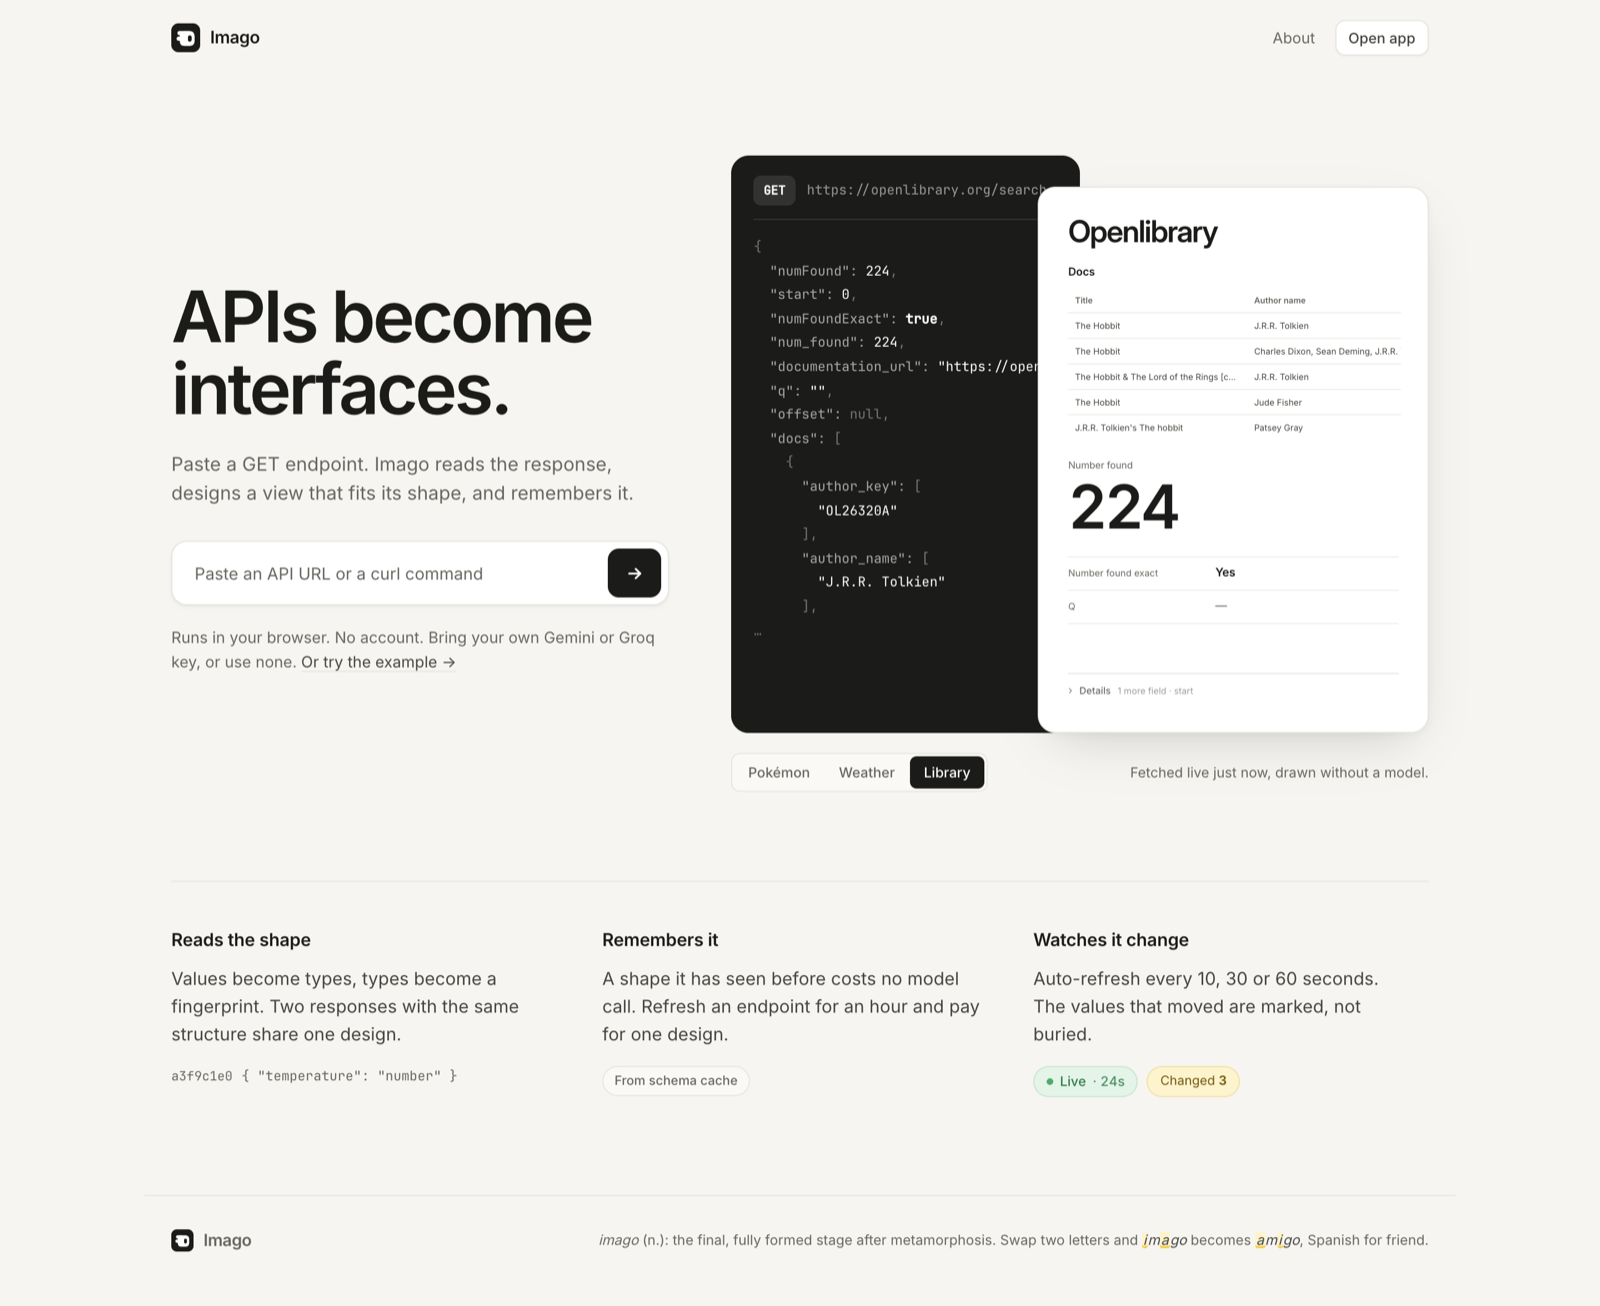
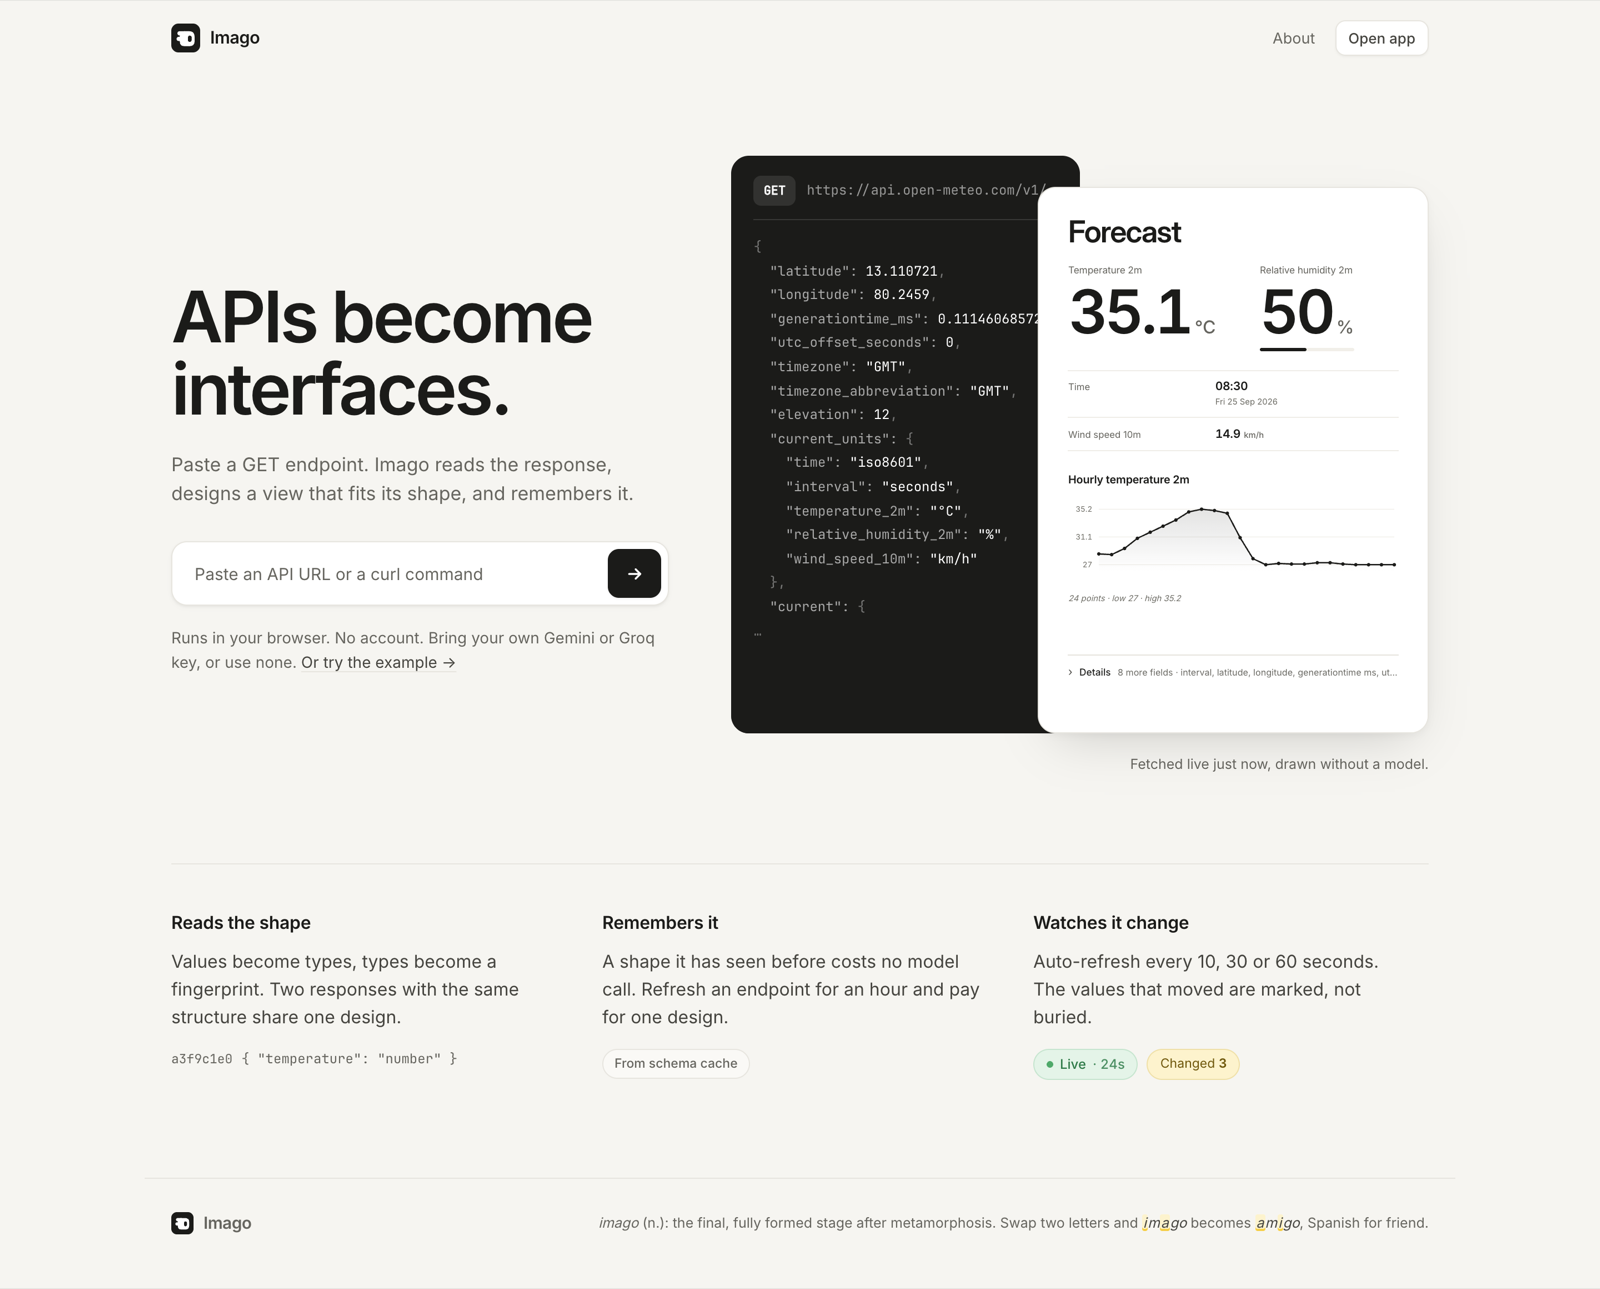
fix: the landing demo is always the weather; every fetch reaches the API (v0.13.2.0)
The landing demo loses its Pokémon / Weather / Library tabs and its random
first pick: it always shows the live Open-Meteo forecast, the picture the
banner and flyer use. "Or try the example" opens that one.

Requests went through the browser's HTTP cache. PokeAPI sends max-age=86400,
so after the first visit Pokémon came back from the browser in no time, while
Open-Meteo and Open Library (no caching allowed) went to the network. It also
meant Refresh and Watch could never see a cacheable endpoint change. The
request and the demo fetch now use cache: 'no-store'. Nothing was hardcoded;
the regression test pins both fetches and fails without either.

Figma: 00 Shipped re-captured; the 01 Landing mocks lose the example switcher.

diff --git a/js/main.js b/js/main.js
@@ -283,6 +283,9 @@ function wireEvents() {
 // opens first is left to chance so none is favoured.
 var specimen = { name: '', url: '', cache: Object.create(null), started: false };
 var SPECIMEN_LINES = 16;
+// The landing page shows one example, always the same one: a live weather
+// response, the picture the brand banner and flyer are built around.
+var SPECIMEN_EXAMPLE = 'Weather';
 
 function specimenDemo(name) {
   for (var i = 0; i < DEMOS.length; i += 1) if (DEMOS[i].name === name) return DEMOS[i];
@@ -290,29 +293,19 @@ function specimenDemo(name) {
 }
 
 function wireSpecimen() {
-  var root = document.querySelector('.specimen');
-  if (!root) return;
-  var tabs = root.querySelectorAll('.specimen-switch button');
-  for (var t = 0; t < tabs.length; t += 1) {
-    (function (tab) {
-      tab.addEventListener('click', function () { showSpecimen(tab.getAttribute('data-example')); });
-    })(tabs[t]);
-  }
   if (dom.landingTry) {
     dom.landingTry.addEventListener('click', function () {
       enterApp();
-      loadExample(specimen.url || DEMOS[0].url);
+      loadExample(specimen.url || specimenDemo(SPECIMEN_EXAMPLE).url);
     });
   }
 }
 
-// Called whenever the landing page is shown; the first call picks a tab.
+// Called whenever the landing page is shown; the first call fetches the example.
 function startSpecimen() {
-  if (specimen.started) return;
-  var tabs = document.querySelectorAll('.specimen-switch button');
-  if (!tabs.length) return;
+  if (specimen.started || !document.querySelector('.specimen')) return;
   specimen.started = true;
-  showSpecimen(tabs[Math.floor(Math.random() * tabs.length)].getAttribute('data-example'));
+  showSpecimen(SPECIMEN_EXAMPLE);
 }
 
 function showSpecimen(name) {
@@ -320,17 +313,11 @@ function showSpecimen(name) {
   if (!demo) return;
   specimen.name = name;
   specimen.url = demo.url;
-  var tabs = document.querySelectorAll('.specimen-switch button');
-  for (var i = 0; i < tabs.length; i += 1) {
-    var on = tabs[i].getAttribute('data-example') === name;
-    tabs[i].classList.toggle('is-active', on);
-    tabs[i].setAttribute('aria-selected', on ? 'true' : 'false');
-  }
   qs('specimenUrl').textContent = demo.url;
   var cached = specimen.cache[name];
   if (cached) { drawSpecimen(cached); return; }
   drawSpecimen({ pending: true, url: demo.url });
-  window.fetch(demo.url, { headers: { Accept: 'application/json' } })
+  window.fetch(demo.url, { headers: { Accept: 'application/json' }, cache: 'no-store' })
     .then(function (response) {
       if (!response.ok) throw new Error('HTTP ' + response.status);
       return response.json();
@@ -841,7 +828,7 @@ window.__imago = {
   getSessionProvider: getSessionProvider, setSessionProvider: setSessionProvider,
   getProvider: getProvider,
   // examples
-  showSpecimen: showSpecimen, startSpecimen: startSpecimen, specimen: specimen,
+  showSpecimen: showSpecimen, startSpecimen: startSpecimen, specimen: specimen, specimenDemo: specimenDemo,
   DEMOS: DEMOS, EMPTY_EXAMPLES: EMPTY_EXAMPLES, loadExample: loadExample, renderComponent: renderComponent,
   parseCurl: parseCurl, shellWords: shellWords, startTimer: startTimer, stopTimer: stopTimer, applyEdits: applyEdits, editsFor: editsFor, setEditing: setEditing, describeChange: describeChange, buildShareLink: buildShareLink, readShareLink: readShareLink, shareCurrentPage: shareCurrentPage, headerProblem: headerProblem, explainFailure: explainFailure, looksLikeCurl: looksLikeCurl, importCurl: importCurl,
   // full-html builder
@@ -877,4 +864,4 @@ if (document.readyState === 'loading') {
   init();
 }
 
-export { isPrivateHost, isFramed, showFramedNotice, wireEvents, wireSpecimen, startSpecimen, showSpecimen, drawSpecimen, specimenDemo, SPECIMEN_LINES, setView, cacheDom, enterApp, APP_HASH, viewFromUrl, goToView, migrateLegacyKeys, restoreSession, restoreLastView, restoreFromSnapshot, baseTitle, describeChange, noteWatchedChange, clearUnseen, offerNotifications, SHARE_PREFIX, MAX_SHARE_CHARS, toBase64Url, fromBase64Url, buildShareLink, readShareLink, shareCurrentPage, openShareLink, init };
+export { isPrivateHost, isFramed, showFramedNotice, wireEvents, wireSpecimen, startSpecimen, showSpecimen, drawSpecimen, specimenDemo, SPECIMEN_LINES, SPECIMEN_EXAMPLE, setView, cacheDom, enterApp, APP_HASH, viewFromUrl, goToView, migrateLegacyKeys, restoreSession, restoreLastView, restoreFromSnapshot, baseTitle, describeChange, noteWatchedChange, clearUnseen, offerNotifications, SHARE_PREFIX, MAX_SHARE_CHARS, toBase64Url, fromBase64Url, buildShareLink, readShareLink, shareCurrentPage, openShareLink, init };

diff --git a/test/specimen.test.js b/test/specimen.test.js
@@ -1,5 +1,5 @@
 /* The landing demo is a live request drawn by the real renderer: nothing on
-   it is hand-written, and no example is favoured. */
+   it is hand-written. It is always the weather example, with no tabs. */
 import { describe, it, expect } from 'vitest';
 import { readFileSync } from 'node:fs';
 import { boot, jsonFetch, flush, LANDING } from './harness.js';
@@ -27,7 +27,6 @@ describe('the landing demo is live', () => {
     expect(doc.querySelector('#specimenOut .stage-title').textContent).toBe('Widget');
     expect(doc.querySelector('#specimenOut .spec-body')).not.toBeNull();
     expect(doc.getElementById('specimenPane').getAttribute('aria-busy')).toBe('false');
-    expect(doc.querySelector('.specimen-switch [data-example="Library"]').getAttribute('aria-selected')).toBe('true');
   });
 
   it('fetches each example once, then reuses it', async () => {
@@ -50,13 +49,17 @@ describe('the landing demo is live', () => {
     expect(doc.getElementById('specimenOut').children.length).toBe(0);
   });
 
-  it('picks the first example by chance, not always the same one', async () => {
-    const seen = new Set();
-    for (let i = 0; i < 12; i += 1) {
-      const app = await boot({ url: LANDING, fetch: jsonFetch({ a: 1 }) });
-      seen.add(app.specimen.name);
+  it('always shows the weather example, and offers no others', async () => {
+    for (let i = 0; i < 6; i += 1) {
+      const calls = [];
+      const app = await boot({ url: LANDING, fetch: (url) => { calls.push(String(url)); return jsonFetch({ a: 1 })(url); } });
+      await settle();
+      expect(app.specimen.name).toBe('Weather');
+      expect(calls).toEqual([app.specimenDemo('Weather').url]);
+      const doc = app.window.document;
+      expect(doc.getElementById('specimenUrl').textContent).toContain('open-meteo.com');
+      expect(doc.querySelector('.specimen [role="tab"], .specimen button')).toBeNull();
     }
-    expect(seen.size).toBeGreaterThan(1);
   });
 
   it('starts fetching as soon as the landing page shows', async () => {
@@ -92,17 +95,9 @@ describe('the landing hero follows the brand banner', () => {
     expect([...top.children].map((c) => c.className)).toEqual(['landing-hero', 'specimen']);
     expect(doc.querySelector('.spec-response').contains(doc.getElementById('specimenUrl'))).toBe(true);
     const foot = doc.querySelector('.specimen > .specimen-foot');
-    expect(foot.querySelector('.specimen-switch')).not.toBeNull();
+    expect(foot.querySelector('.specimen-switch')).toBeNull();
     expect(foot.contains(doc.getElementById('specimenNote'))).toBe(true);
     expect(doc.querySelector('.spec-seam')).toBeNull();
-  });
-
-  it('switches examples from the tabs under the composition', async () => {
-    const app = await boot({ url: LANDING, fetch: jsonFetch({ a: 1 }) });
-    const doc = app.window.document;
-    doc.querySelector('.specimen-foot [data-example="Weather"]').click();
-    await settle();
-    expect(doc.getElementById('specimenUrl').textContent).toContain('open-meteo.com');
   });
 });
 

diff --git a/test/regressions.test.js b/test/regressions.test.js
@@ -2,7 +2,7 @@
    behaviour that was broken, so a regression fails here rather than in a
    user's browser. */
 import { describe, it, expect, vi } from 'vitest';
-import { boot, jsonFetch, flush } from './harness.js';
+import { boot, jsonFetch, flush, LANDING } from './harness.js';
 
 function quotaError() {
   const e = new Error('quota'); e.name = 'QuotaExceededError'; return e;
@@ -542,5 +542,22 @@ describe('a failed request over a page that stays', () => {
     for (let i = 0; i < 6; i += 1) await flush();
     const alert = app.dom.interfaceOut.querySelector('.alert');
     expect(alert.textContent).toMatch(/Below is Widget, the last page that loaded\./);
+  });
+});
+
+describe('every fetch reaches the API', () => {
+  // A response sent with a long max-age (PokeAPI: a day) used to come back
+  // from the browser's HTTP cache, so Refresh and Watch never saw it change.
+  it('the app and the landing demo both bypass the browser cache', async () => {
+    const inits = [];
+    const app = await boot({ url: LANDING, fetch: (url, init) => { inits.push({ url: String(url), cache: init && init.cache }); return jsonFetch({ a: 1 })(url); } });
+    await flush(); await flush();
+    app.dom.urlInput.value = 'https://mine.test/api';
+    app.dom.reqForm.dispatchEvent(new app.window.Event('submit', { cancelable: true }));
+    await flush(); await flush();
+    const demo = inits.find((c) => c.url.includes('open-meteo.com'));
+    const mine = inits.find((c) => c.url === 'https://mine.test/api');
+    expect(demo.cache).toBe('no-store');
+    expect(mine.cache).toBe('no-store');
   });
 });

diff --git a/styles.css b/styles.css
@@ -1535,13 +1535,7 @@ body.inspector-open .inspector { display: block; }
   padding: 22px 26px 26px; border: 1px solid var(--line); border-radius: var(--r-lg);
   background: var(--card); box-shadow: var(--sh-lg);
 }
-.specimen-foot { display: flex; align-items: center; justify-content: space-between; gap: 16px; margin-top: 18px; }
-.specimen-switch { display: flex; gap: 2px; padding: 2px; border: 1px solid var(--line); border-radius: 8px; background: var(--card-2); flex: 0 0 auto; }
-.specimen-switch button {
-  font: inherit; font-size: 12.5px; font-weight: 500; color: var(--muted);
-  padding: 5px 12px; border: 0; border-radius: 6px; background: none; cursor: pointer;
-}
-.specimen-switch button.is-active { background: var(--ink); color: var(--card); }
+.specimen-foot { display: flex; align-items: center; justify-content: flex-end; gap: 16px; margin-top: 18px; }
 
 .proofs {
   display: grid; grid-template-columns: repeat(3, 1fr); gap: 32px;
@@ -1587,8 +1581,7 @@ body.inspector-open .inspector { display: block; }
   .spec-pane { grid-template-columns: 1fr; min-height: 0; }
   .spec-response { grid-column: 1; contain: none; height: 250px; padding-bottom: 48px; }
   .spec-interface { grid-column: 1; grid-row: 2; margin: -32px 12px 0; padding: 18px 16px 22px; }
-  .specimen-foot { flex-direction: column; align-items: stretch; gap: 10px; }
-  .specimen-switch button { flex: 1 1 0; min-height: 40px; }
+  .specimen-foot { justify-content: flex-start; }
   .spec-json { font-size: 11.5px; }
   .si-facts { grid-template-columns: 1fr 1fr; }
   .si-big b { font-size: 52px; }

diff --git a/index.html b/index.html
@@ -85,7 +85,7 @@
       <section class="specimen" aria-label="An API response and the interface Imago renders from it">
         <!-- Nothing in here is written by hand: the response is fetched live and
              the page is drawn by the same renderer the app uses, with no model. -->
-        <div class="spec-pane is-active" id="specimenPane" role="tabpanel" aria-busy="true">
+        <div class="spec-pane is-active" id="specimenPane" aria-busy="true">
           <div class="spec-response" aria-label="The API response">
             <p class="specimen-url"><span class="method-chip">GET</span><span class="specimen-url-text" id="specimenUrl"></span></p>
             <pre class="spec-json" id="specimenJson"></pre>
@@ -95,11 +95,6 @@
           </div>
         </div>
         <div class="specimen-foot">
-          <div class="specimen-switch" role="tablist" aria-label="Example">
-            <button type="button" role="tab" aria-selected="false" data-example="Pokémon">Pokémon</button>
-            <button type="button" role="tab" aria-selected="false" data-example="Weather">Weather</button>
-            <button type="button" role="tab" aria-selected="false" data-example="Library">Library</button>
-          </div>
           <p class="spec-key" id="specimenNote">Fetching…</p>
         </div>
       </section>

diff --git a/test/onescreen.test.js b/test/onescreen.test.js
@@ -490,12 +490,12 @@ describe('first run, the other paths', () => {
     expect(calls).toHaveLength(0);
     expect(app.dom.urlInput.value).toBe('https://mine.test/api');
 
-    // Try an example with no switch pressed opens the first example.
+    // Try the example before the landing demo has loaded opens the weather one.
     const calls2 = [];
     const app2 = await boot({ fetch: (url) => { calls2.push(String(url)); return jsonFetch({ a: 1 })(url); } });
     app2.dom.landingTry.click();
     await flush();
-    expect(calls2).toContain(app2.DEMOS[0].url);
+    expect(calls2).toContain(app2.specimenDemo('Weather').url);
   });
 
   it('a remembered URL makes Save live on load; none leaves it unavailable', async () => {

diff --git a/js/request.js b/js/request.js
@@ -385,7 +385,10 @@ function performRequest(isAuto) {
   activeRequest = request;
   function current() { return state.requestSeq === seq; }
 
-  var options = { method: 'GET', headers: state.headers, mode: 'cors' };
+  // no-store: every fetch goes to the API. With the default, a response sent
+  // with a long max-age (PokeAPI's is a day) came back from the browser's
+  // cache, so Refresh and Watch could never see it change.
+  var options = { method: 'GET', headers: state.headers, mode: 'cors', cache: 'no-store' };
   if (controller) options.signal = controller.signal;
   var timedOut = new Promise(function (resolve, reject) {
     // Settles the chain even where there is no AbortController to do it.

diff --git a/CHANGELOG.md b/CHANGELOG.md
@@ -2,6 +2,22 @@
 
 All notable changes to Imago are recorded here. Dates are YYYY-MM-DD.
 
+## [0.13.2.0] - 2026-09-25
+
+### Changed
+
+- **The landing demo is always the weather forecast.** The Pokémon, Weather
+  and Library tabs are gone, and so is the random first pick: the page shows
+  one live Open-Meteo response, the same picture as the banner and flyer.
+
+### Fixed
+
+- **Refresh and Watch always reach the API.** Requests used the browser's
+  HTTP cache, so an API that allows caching (PokeAPI allows a day) was
+  answered from the browser, not the network. It looked fast, and a watched
+  endpoint of that kind could never change. Every fetch, the landing demo's
+  too, now goes to the API.
+
 ## [0.13.1.0] - 2026-09-25
 
 The landing hero takes the banner's call to action.

diff --git a/README.md b/README.md
@@ -331,7 +331,7 @@ a heuristic interface built from the response itself — it finds a title field,
 the most likely primary image, and the first handful of scalar fields — with a
 neutral notice naming the missing key, where a free one lives, and an **Add a
 key** button that opens Settings. The landing page shows a live example before
-asking for anything: one of three example APIs, picked at random, is fetched right
+asking for anything: a live weather forecast (Open-Meteo) is fetched right
 then and drawn by the same renderer, with no model and nothing written by hand.
 In this basic layout, unit tables are applied to their values, time series become
 charts, located responses name the place in the subtitle, and bookkeeping
